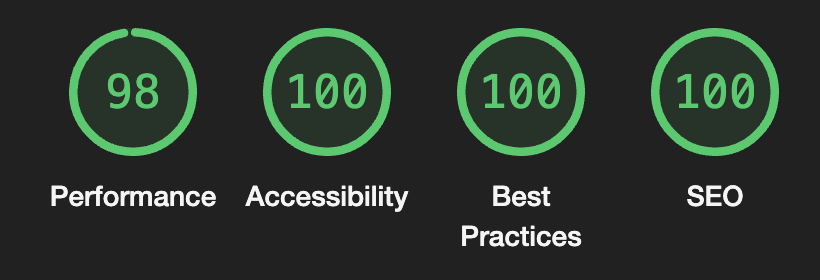
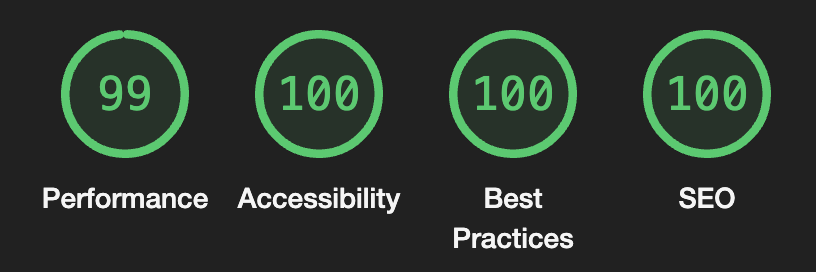
see whether next/image makes a difference

diff --git a/app/components/gig/card.tsx b/app/components/gig/card.tsx
@@ -1,6 +1,6 @@
 import { ReactNode } from 'react'
 
-import { Box, Flex, Icon, Image, Text } from '@chakra-ui/react'
+import { Box, Flex, Icon, Text } from '@chakra-ui/react'
 import Delete from '@components/gig/delete'
 import Genres from '@components/gig/genres'
 import Info from '@components/gig/info'
@@ -12,6 +12,7 @@ import { fonts } from '@theme/index'
 import { SHADOWS } from '@theme/utils/shadows'
 import { gigStartDate } from '@utils/gigs'
 import { format } from 'date-fns'
+import Image from 'next/image'
 import { MdOutlineFestival } from 'react-icons/md'
 
 interface Props {
@@ -27,14 +28,11 @@ const Card = ({ gig, icons = true, footer = null }: Props) => {
     <Flex gap={2} position="relative">
       <Flex direction="column" w="100%" color="GREY8" bg="GREYGRAD" boxShadow={SHADOWS.default}>
         <Image
-          loading="lazy"
-          role="presentation"
-          h="150px"
-          w="100%"
-          src={artist.imageS3}
-          objectFit="cover"
-          bgPosition="top"
+          height="150"
+          width="400"
+          src={artist?.imageS3 || ''}
           alt={artist.name}
+          style={{ objectFit: 'cover', backgroundPosition: 'top', width: '100%' }}
         />
         <Box p={4}>
           {icons && (

diff --git a/app/components/gig/past-card.tsx b/app/components/gig/past-card.tsx
@@ -1,4 +1,4 @@
-import { Box, Flex, Icon, Image, Text } from '@chakra-ui/react'
+import { Box, Flex, Icon, Text } from '@chakra-ui/react'
 import Genres from '@components/gig/genres'
 import Lineup from '@components/gig/lineup'
 import Location from '@components/gig/location'
@@ -6,6 +6,7 @@ import Rating from '@components/gig/rating'
 import { Gig } from '@gql/graphql'
 import { SHADOWS } from '@theme/utils/shadows'
 import { format } from 'date-fns'
+import Image from 'next/image'
 import { MdOutlineFestival } from 'react-icons/md'
 
 interface Props {
@@ -18,14 +19,11 @@ const PastCard = ({ gig }: Props) => {
   return (
     <Flex key={_id} gap={2} bg="GREYGRAD" flex="0 0 calc(400px + 16px)" h="150px" boxShadow={SHADOWS.default}>
       <Image
-        loading="lazy"
-        role="presentation"
-        h="100%"
-        w="125px"
-        src={artist.imageS3}
-        objectFit="cover"
-        bgPosition="top"
+        height="150"
+        width="125"
+        src={artist?.imageS3 || ''}
         alt={artist.name}
+        style={{ objectFit: 'cover', backgroundPosition: 'top', height: '100%' }}
       />
       <Flex>
         <Box pt={2}>

diff --git a/app/next.config.js b/app/next.config.js
@@ -5,4 +5,7 @@ module.exports = {
     locales: ['en'],
     defaultLocale: 'en',
   },
+  images: {
+    domains: ['gigstr.s3.amazonaws.com'],
+  },
 }

diff --git a/README.md b/README.md
@@ -35,6 +35,7 @@ Docker compose setup:
 - FE hosted on Vercel
 - BE hosted on EC2 using docker-compose
 - Auto deploy setup for both FE and BE using Vercel and github action to auto-deploy api on push
+- AWS Services used: EC2, S3
 
 
 I mean...this thing is powerful, can do anything within reason and is light as balls. Check out the package file, its got the essentials and a couple of nice to haves, the other point of this project is to prove not only to myself but others that you don't need to go crazy, you can build a fullstack application in 1 place utilising a few bits. Don't ever take that for granted.
